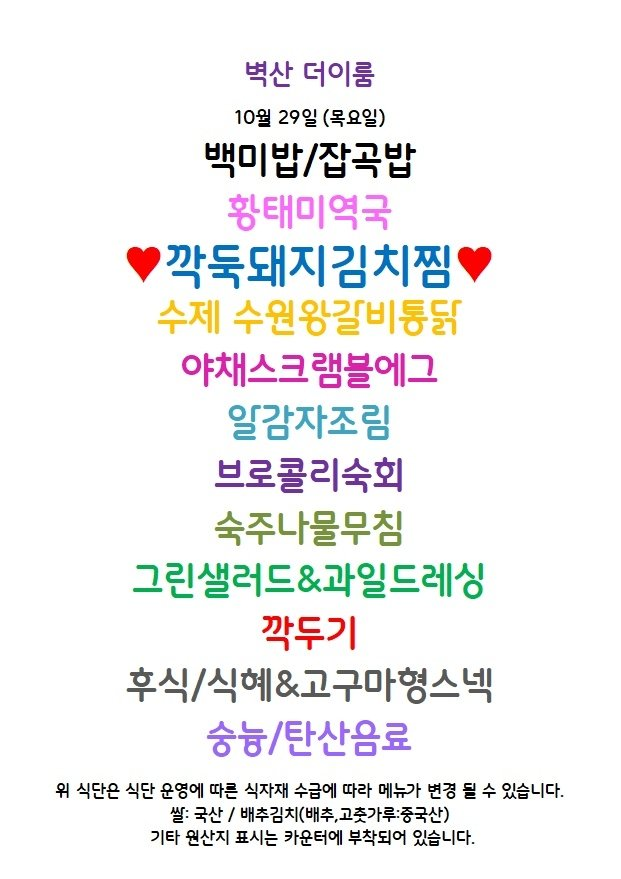
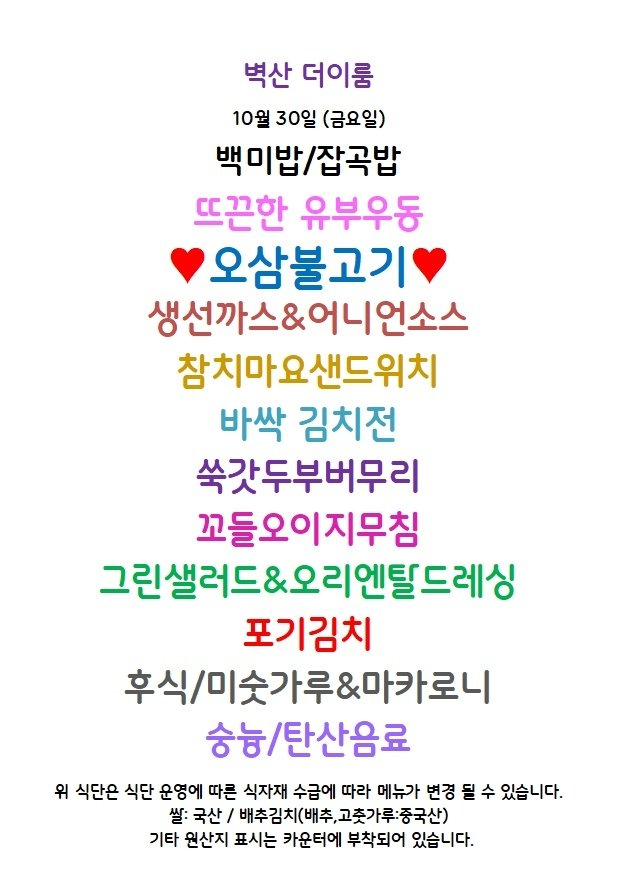
Update menu board assets

diff --git a/guro-menu/index.html b/guro-menu/index.html
@@ -32,7 +32,7 @@
   </header>
   <section class="meta">
     <div><small>기준 날짜</small><strong>2026년 10월 30일 금요일</strong></div>
-    <div><small>최종 갱신</small><strong>2026-10-30 09:04:03</strong></div>
+    <div><small>최종 갱신</small><strong>2026-10-30 09:13:29</strong></div>
     <div><small>등록 식당</small><strong>5개</strong></div>
   </section>
   <div class="notice">공개 카카오 채널의 메뉴 이미지를 자동 수집하고 OCR로 정리합니다. 텍스트에 오타가 있을 수 있으니 식단 이미지를 함께 확인해 주세요.</div>
@@ -89,8 +89,8 @@
           <a class="channel" href="https://pf.kakao.com/_xdLzxgG" target="_blank" rel="noopener">원본 채널</a>
         </div>
         <img class="menu-image" src="./images/byucksan-theirum.png" alt="벽산더이룸 식단 이미지" loading="lazy">
-        <p class="message">최신 공개 식단 이미지의 텍스트입니다. 날짜는 원본 이미지를 확인해 주세요.</p>
-        <ul><li>백미밥/잡곡밥</li><li>황태미역국</li><li>야채스크램블에그</li><li>일감자조림</li><li>브로콜리숙회</li><li>숙주나물무침</li><li>그린샐러드&amp;과일드레싱</li><li>후식/식혜&amp;고구마형스넥</li><li>숭늉/탄산음료</li><li>BE 국산 / WHE Q AHH DEMS SR)</li><li>기타 원산지 표시는 카운터에 부착되어 있습니다</li></ul>
+        
+        <ul><li>백미밥/잡곡밥</li><li>뜨끈한 유부우동</li><li>$오삼불고기</li><li>생선까스&amp;어니언소스</li><li>참치마요샌드위치</li><li>Bret 김치전</li><li>쑥갓두부버무리</li><li>꼬들오이지무침</li><li>그린샐러드&amp;오리엔틸드레싱</li><li>포기김치</li><li>후식/미숫가루&amp;마카로니</li><li>숭늉/탄산음료</li><li>A 국산 / 배추김치(배추,고추가루:중국산)</li><li>기타 원산지 표시는 카운터에 부착되어 있습니다</li></ul>
       </article>
 
       <article class="restaurant-card">

diff --git a/menu-today/index.html b/menu-today/index.html
@@ -209,7 +209,7 @@
 
     <section class="meta-bar">
       <div class="meta-card"><div class="meta-label">기준 날짜</div><div class="meta-value">2026년 10월 30일 금요일</div></div>
-      <div class="meta-card"><div class="meta-label">최종 가져온 시간</div><div class="meta-value">2026-10-30 09:03:49</div></div>
+      <div class="meta-card"><div class="meta-label">최종 가져온 시간</div><div class="meta-value">2026-10-30 09:13:17</div></div>
       <div class="meta-card"><div class="meta-label">확인 완료</div><div class="meta-value">9개 식당</div></div>
       <div class="meta-card"><div class="meta-label">준비중</div><div class="meta-value">3개 채널</div></div>
     </section>
